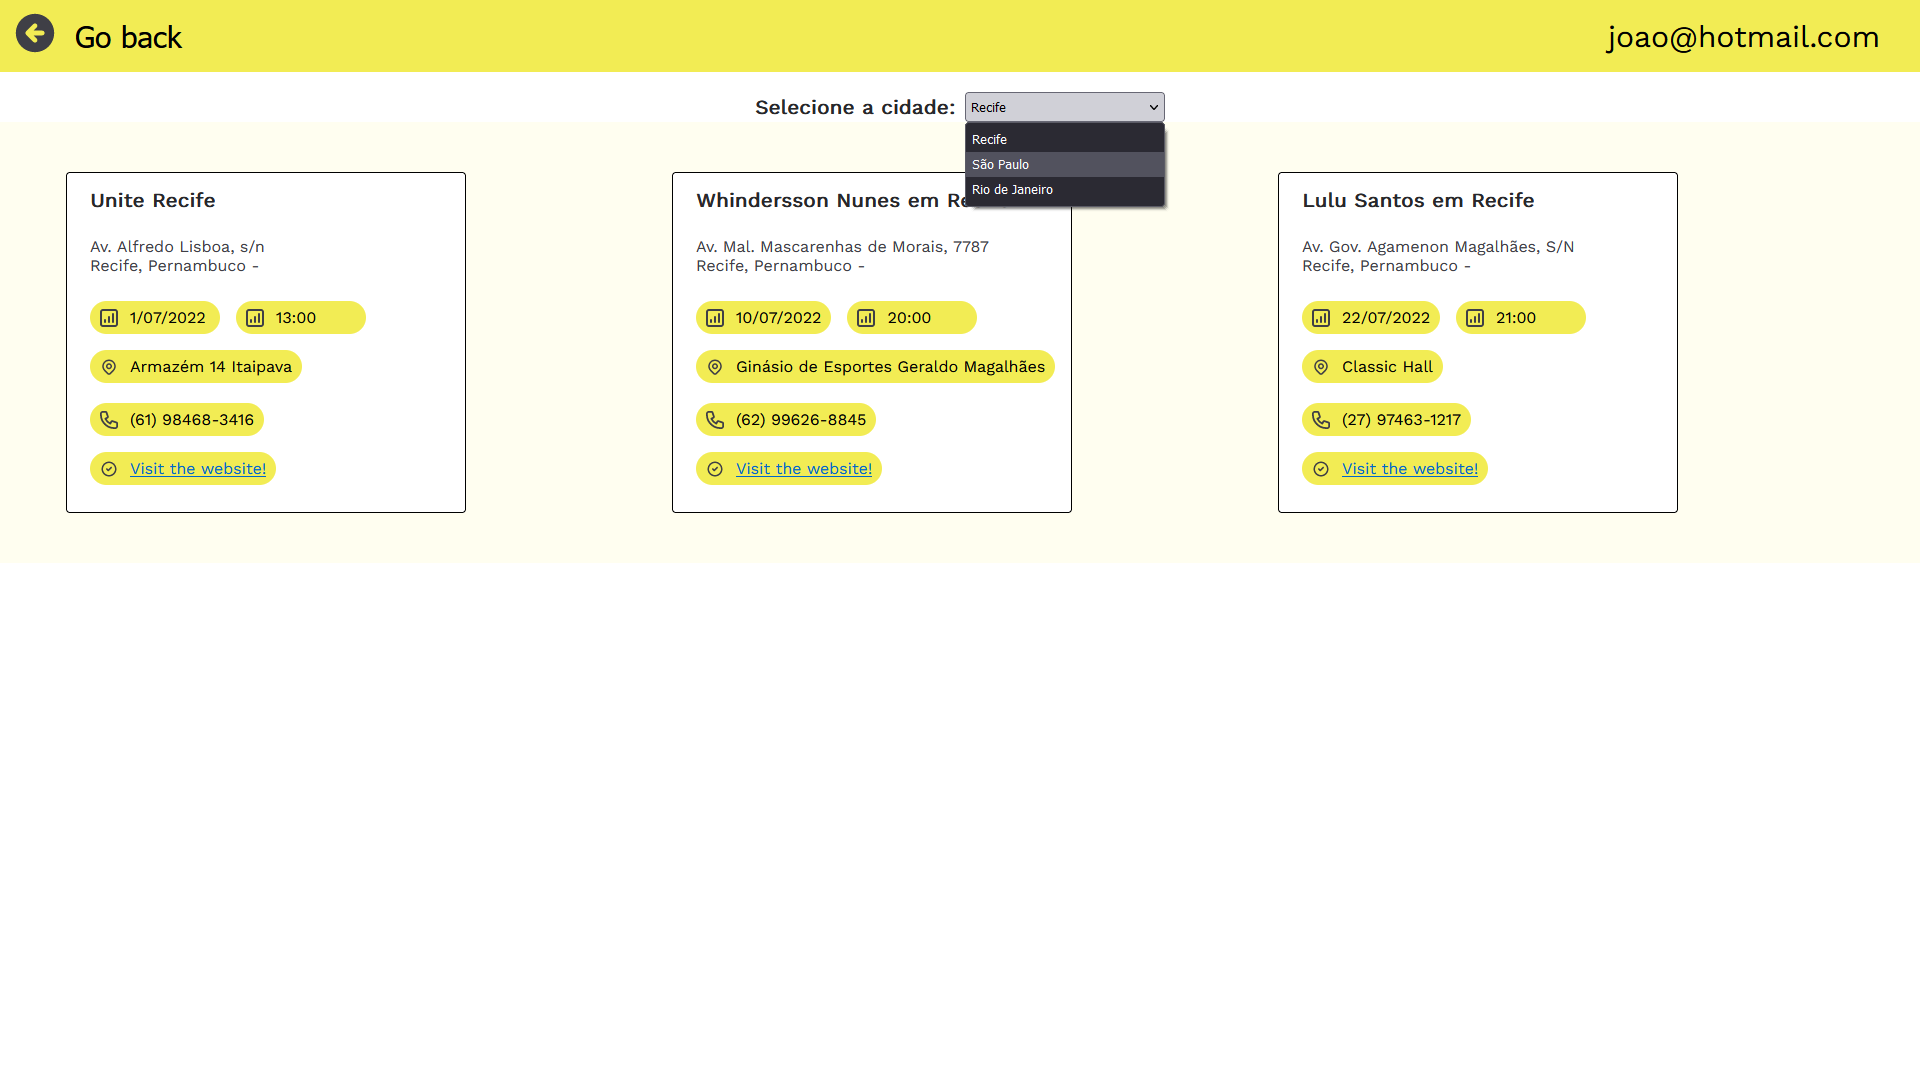
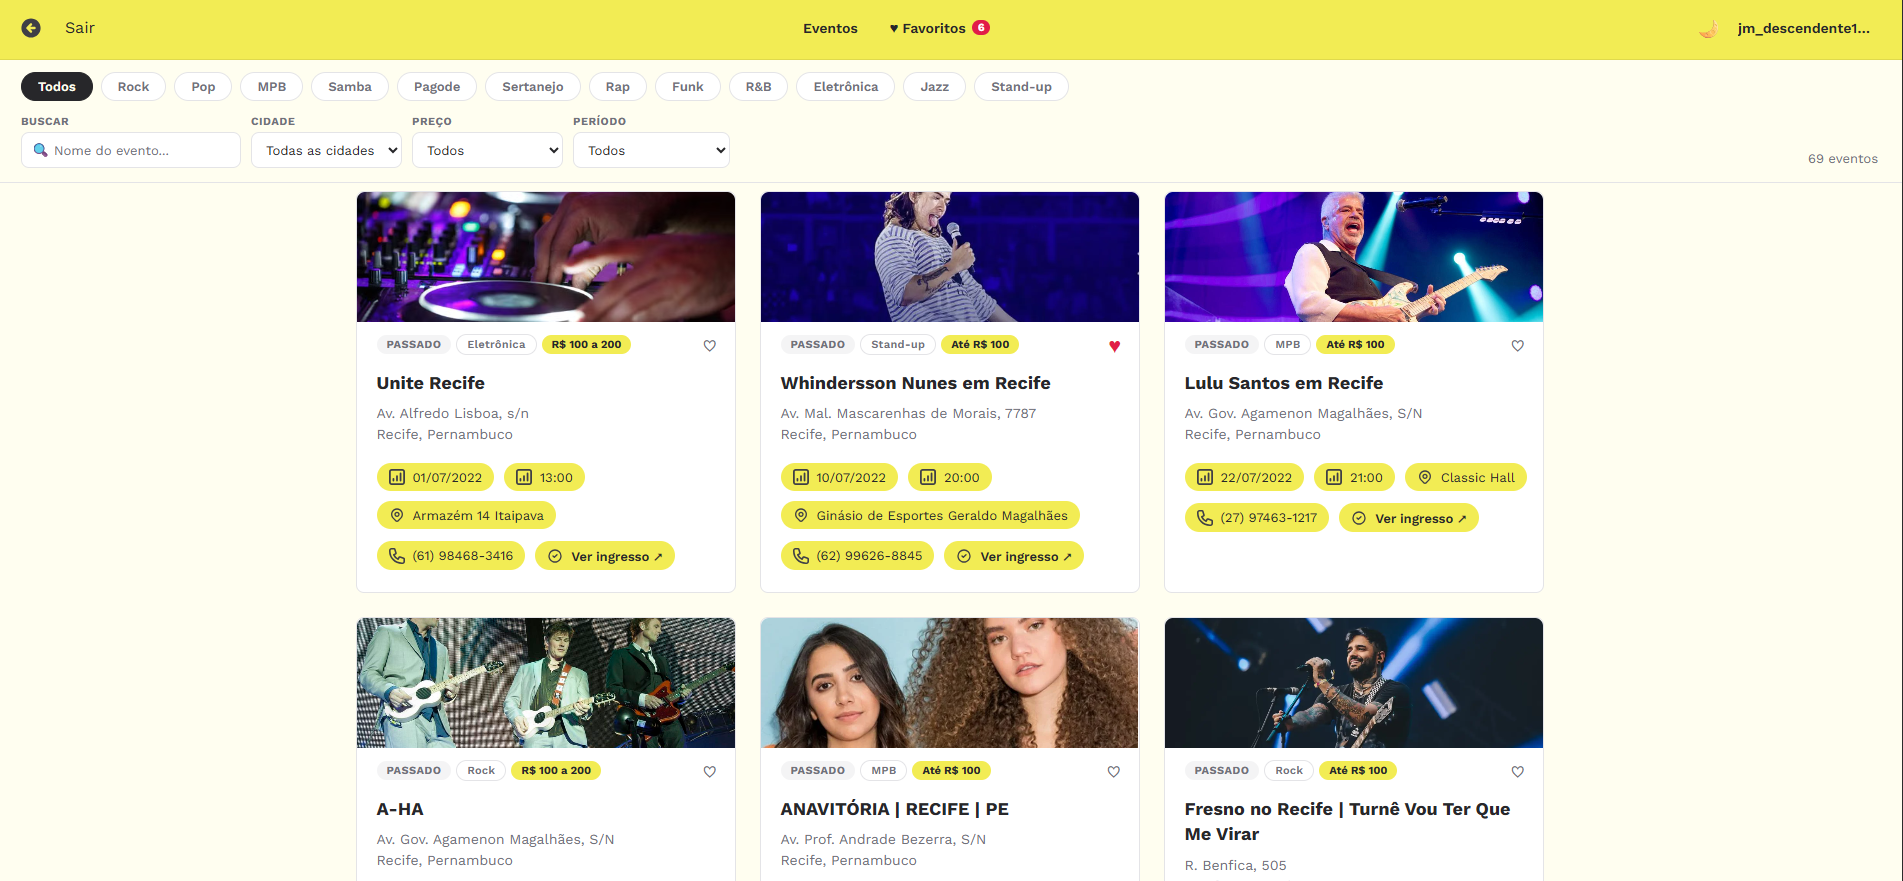
chore: update readme and image

diff --git a/README.md b/README.md
@@ -1,6 +1,6 @@
 # Bee Social 🐝
 
-Plataforma de descoberta de eventos musicais por cidade — projeto de portfólio construído com React, TypeScript e Vite.
+Plataforma de descoberta de eventos musicais por cidade — projeto construído com React, TypeScript e Vite.
 
 ## Screenshots 🖥
 
@@ -30,7 +30,7 @@ Plataforma de descoberta de eventos musicais por cidade — projeto de portfóli
 - [Vite 5](https://vitejs.dev/) — build tool
 - [React Router v6](https://reactrouter.com/) — navegação client-side
 - [Vitest](https://vitest.dev/) + [Testing Library](https://testing-library.com/) — testes unitários
-- CSS puro com variáveis de tema (sem UI library)
+- CSS puro com variáveis de tema
 
 ## Rodando localmente ⚙
 
